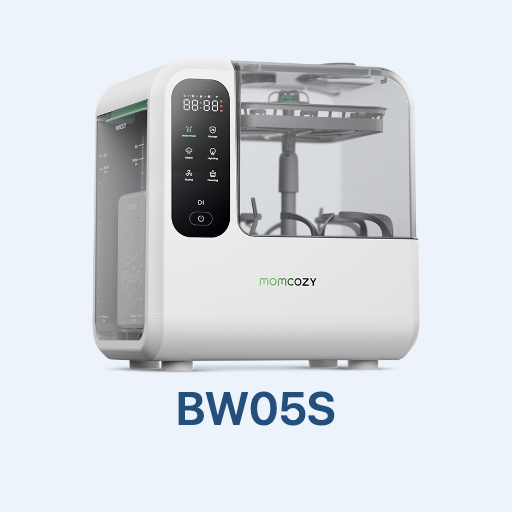
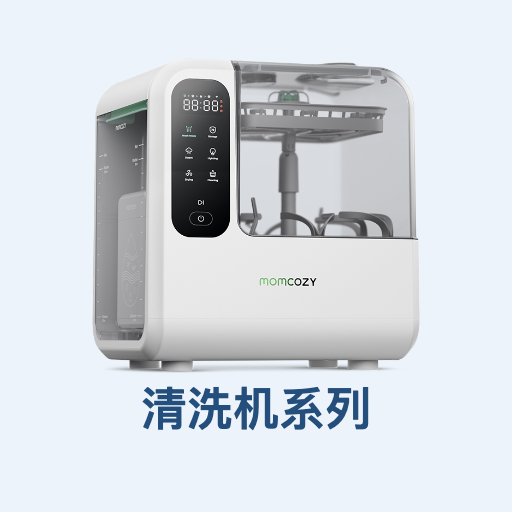
Rename cleaning machine series and match BW05S artwork scale

Changed region(s): [[0.2812, 0.75, 0.7188, 0.8438]]

diff --git a/client/src/components/Layout.tsx b/client/src/components/Layout.tsx
@@ -124,7 +124,7 @@ export default function Layout() {
     return () => { cancelAnimationFrame(frame); clearTimeout(timer); observer.disconnect(); window.removeEventListener('resize', update); element.removeEventListener('scroll', update, true); };
   }, [page.id, directoryOpen, consoleOpen, infoOpen, connectors, revision]);
   return <div className="demo-workspace" ref={root}>
-    <div className="workspace-header"><strong>{page.id === 'devices' ? '清洗机 Demo' : `${model.name}清洗机`}</strong><span>{page.title}</span>
+    <div className="workspace-header"><strong>清洗机系列</strong><span>{page.title}</span>
       <PreviewSwitcher />
       <nav aria-label="演示面板">
         <button title="手机体验" aria-label="手机体验二维码" onClick={() => setShareOpen(true)}><Smartphone size={18} /></button>

diff --git a/vite.config.ts b/vite.config.ts
@@ -12,9 +12,9 @@ export default defineConfig(({ command }) => ({
     includeAssets: ['app-icon-192.png', 'app-icon-512.png', 'apple-touch-icon.png'],
     manifest: {
       id: './#/app',
-      name: 'BW05S Bottle Washer',
-      short_name: 'BW05S',
-      description: 'BW05S bottle washer interactive experience',
+      name: '清洗机系列',
+      short_name: '清洗机系列',
+      description: '清洗机系列交互 Demo',
       start_url: './#/app',
       scope: './',
       display: 'standalone',

diff --git a/client/src/components/MobileLayout.tsx b/client/src/components/MobileLayout.tsx
@@ -34,7 +34,7 @@ export default function MobileLayout() {
     };
   }, []);
   return <div className="mobile-preview">
-    <header className="mobile-preview-header"><strong>清洗机 Demo</strong><PreviewSwitcher /></header>
+    <header className="mobile-preview-header"><strong>清洗机系列</strong><PreviewSwitcher /></header>
     <div className="mobile-preview-stage"><main className={`mobile-app ${darkMode ? 'app-dark' : ''}`}><RouteBoundary><Outlet /></RouteBoundary></main></div>
   </div>;
 }

diff --git a/client/index.html b/client/index.html
@@ -7,9 +7,9 @@
   <meta name="theme-color" content="#edf3fa">
   <meta name="apple-mobile-web-app-capable" content="yes">
   <meta name="apple-mobile-web-app-status-bar-style" content="default">
-  <meta name="apple-mobile-web-app-title" content="BW05S">
+  <meta name="apple-mobile-web-app-title" content="清洗机系列">
   <link rel="apple-touch-icon" href="./apple-touch-icon.png">
-  <title>BW05S清洗机</title>
+  <title>清洗机系列</title>
 </head>
 
 <body>

diff --git a/README.md b/README.md
@@ -1,4 +1,4 @@
-# BW05S清洗机
+# 清洗机系列
 
 从原始项目导入的清洗机交互 Demo，已支持独立本地预览，并移入「异常控制台- FD04」对话中的通用演示工具能力。清洗模式、运行控制、设备设置、宝宝物品及通知仍沿用清洗机自身页面，不包含 FD04 调奶、喂养或单位换算业务。
 
@@ -39,8 +39,11 @@ npm run dev -- --host 0.0.0.0
 
 部署产物为 `dist/`，支持 GitHub Pages、Cloudflare Pages、Vercel 等静态托管。`.github/workflows/deploy.yml` 在 `main` 分支推送时自动构建并发布 GitHub Pages，也支持手动触发。仓库已按所有者授权改为公开。
 
-- 桌面演示：https://lxz9512-prog.github.io/BW05S-Bottle-Washer/#/demo
-- 手机体验：https://lxz9512-prog.github.io/BW05S-Bottle-Washer/#/app
+- Git 仓库：https://github.com/lxz9512-prog/Bottle-Washer
+- 桌面演示：https://lxz9512-prog.github.io/Bottle-Washer/#/demo
+- 手机体验：https://lxz9512-prog.github.io/Bottle-Washer/#/app
+
+仓库改名为 `Bottle-Washer`。型号标识与历史存储命名空间保持兼容；旧 GitHub Pages 路径不保证重定向，请使用以上新入口。
 
 ```sh
 npm run build

diff --git a/docs/multi-model-demo.md b/docs/multi-model-demo.md
@@ -12,6 +12,8 @@
 
 精细护理四个模式标识为 `baby`、`bottles`、`food-bowl`、`delicate-wash`。BW05S 使用历史版本中的灰色产品图，未提供 P/A 专用素材，P/A 暂时复用另一张现有清洗机产品图。强力洗尚未提供专用参数，当前 Demo 沿用标准洗参数。
 
+BW05S 灰色图已裁掉外围留白，与 P/A 共用显示尺寸；设备列表、控制页和耗材页保持接近的机器视觉大小。
+
 所有机型均可在模式浮窗标题两侧切换模式。仅自定义模式名称支持点击直接编辑，名称居中显示，修改后本地保存。
 
 ## 入口
